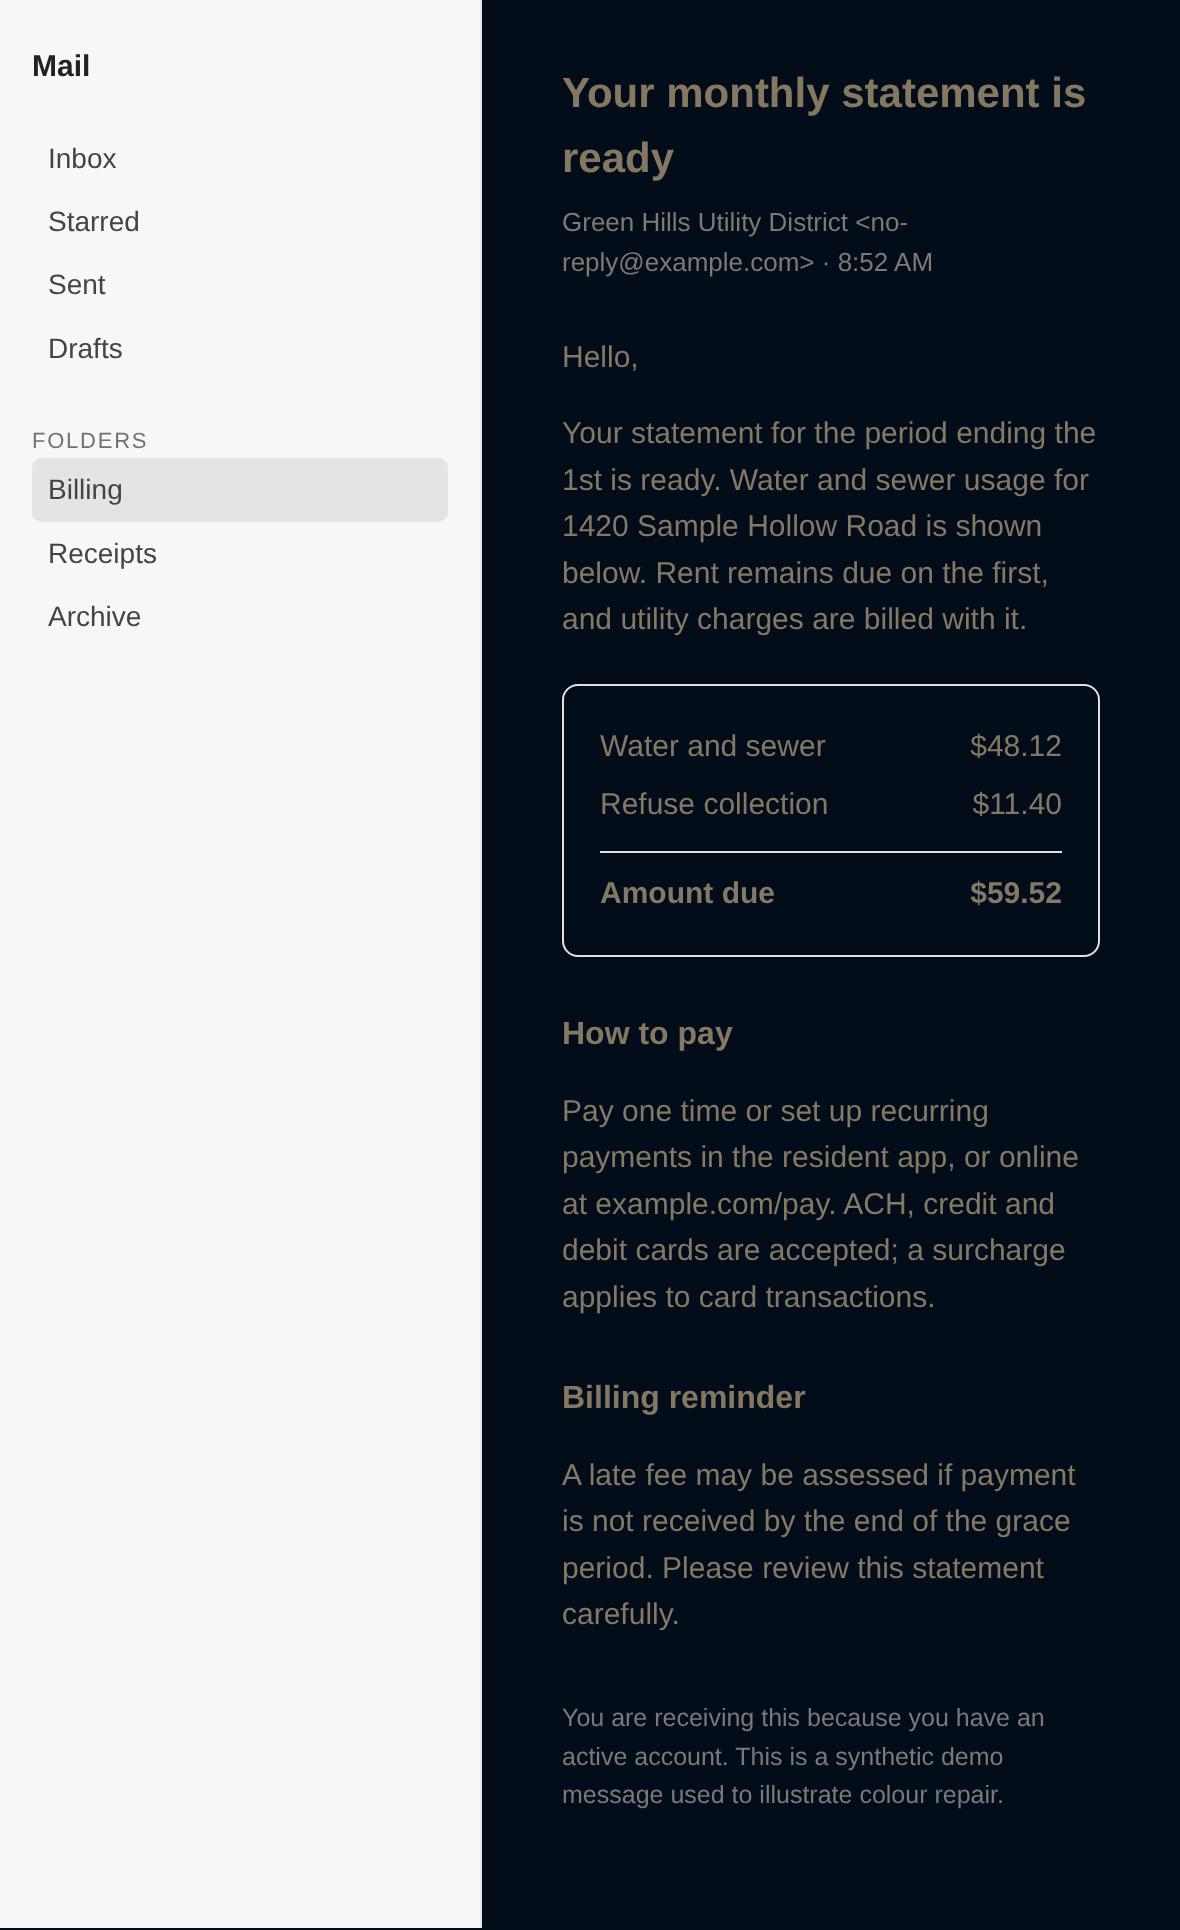
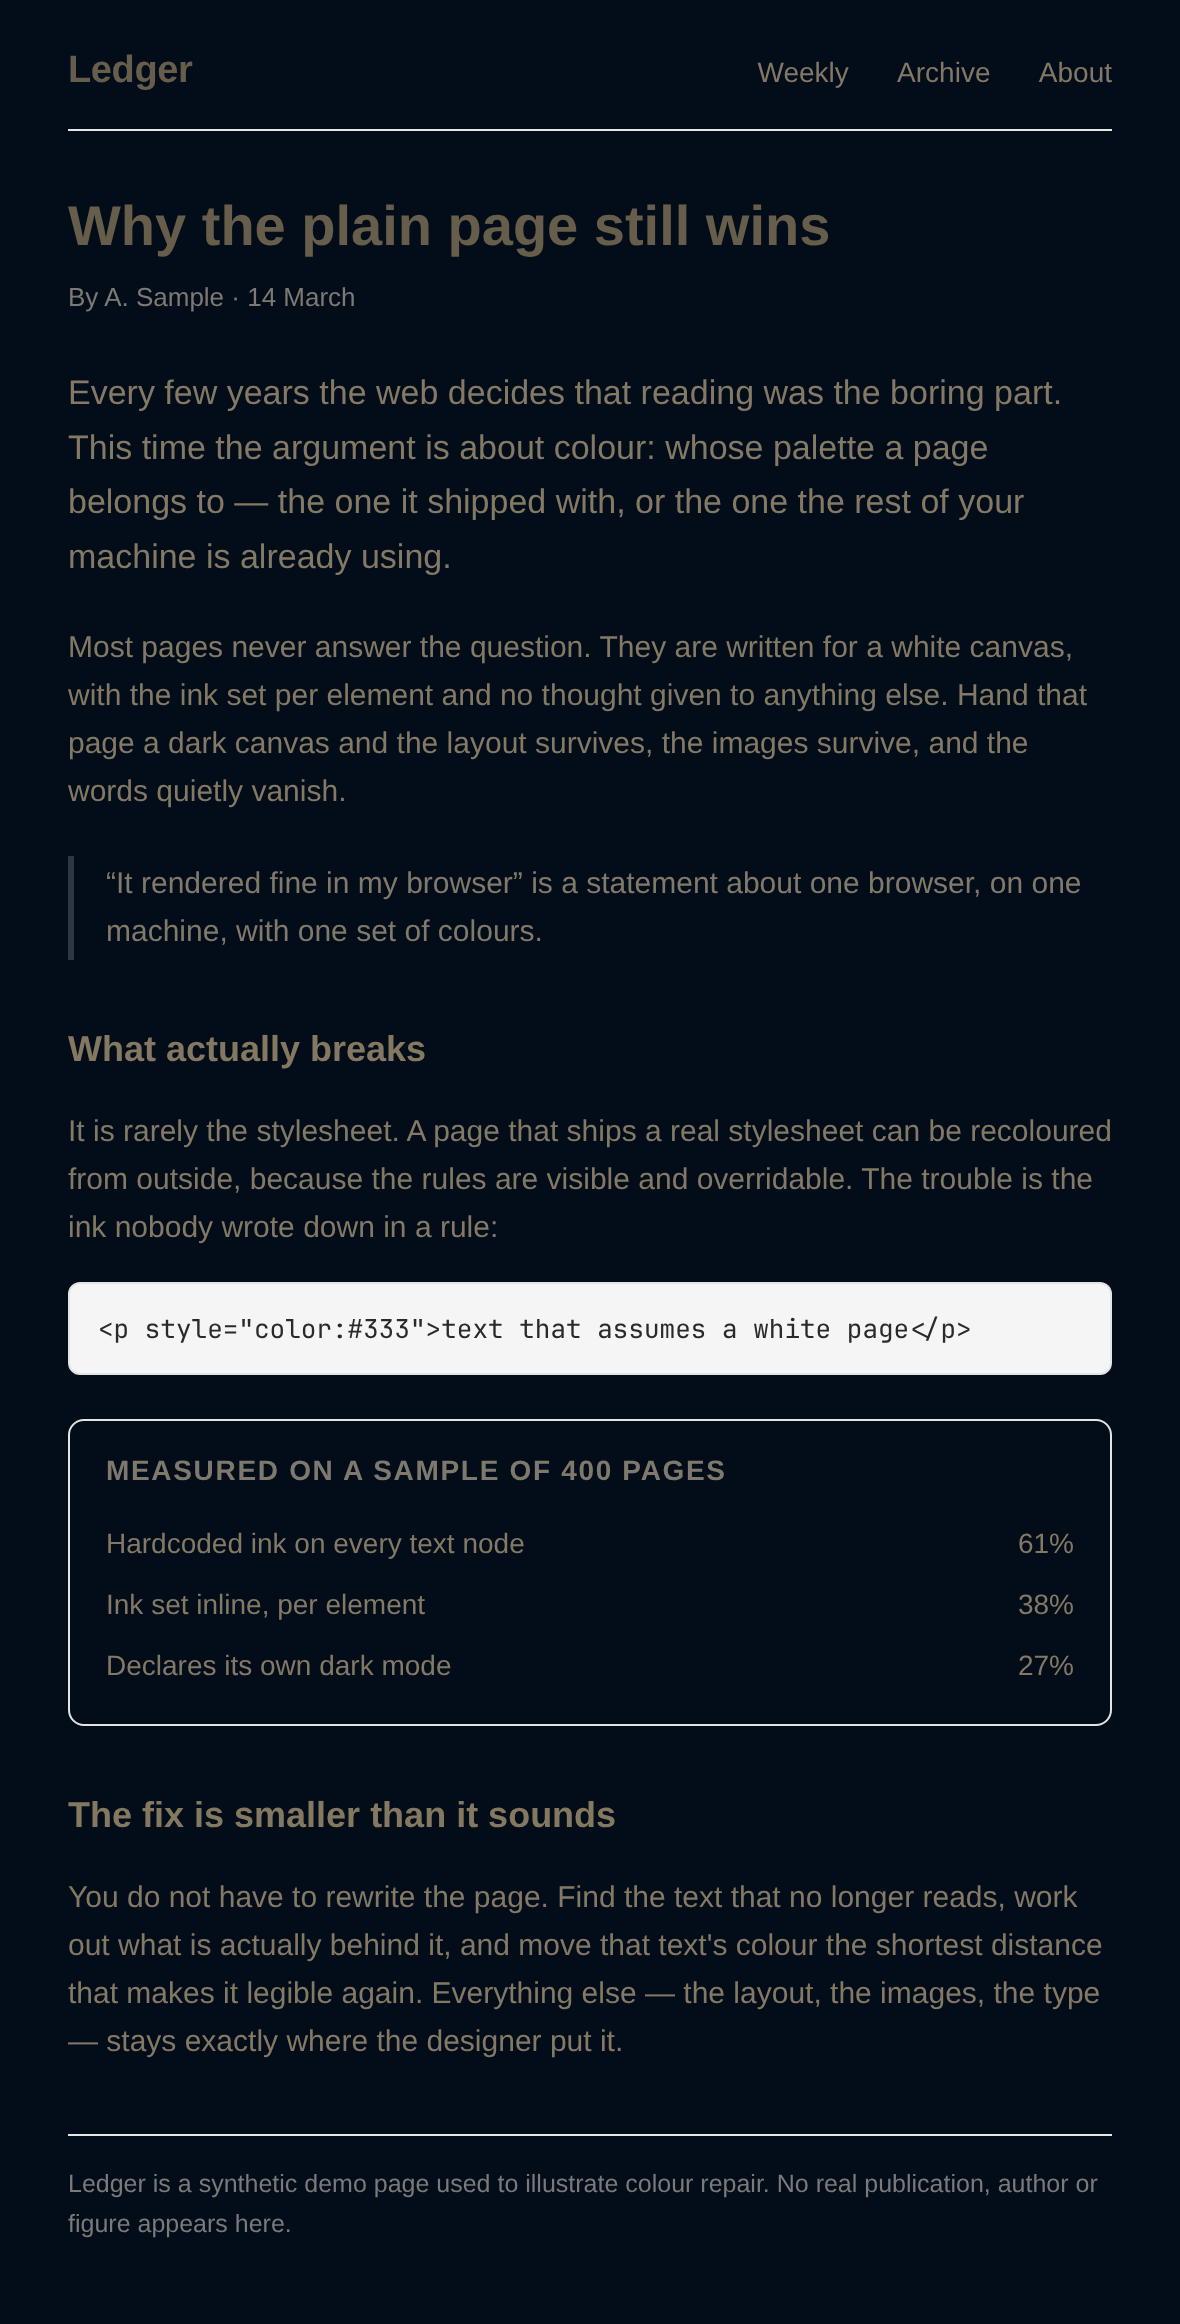
docs: replace the mail-statement demo with a plain article page
The screenshot pair showed a made-up utility statement, which is a strange
example for a browser extension and read as a leftover from the machine it was
first shot on. The pair now shows docs/demo-page.html: an ordinary light
article page whose ink is written inline, the way real sites ship it — the case
the repair pass exists for.

The screenshots' rationale also spilled into the README as publishing notes
(synthetic message, "nothing from a real mailbox"); that belongs in the capture
script's header comment, not in the reader's way. The README now just points at
the demo page, states the measured contrast (1.5:1 against 4.5:1 for AA) and
says how to regenerate the images.

diff --git a/docs/capture-screenshots.js b/docs/capture-screenshots.js
@@ -1,11 +1,8 @@
 // Regenerates the two README screenshots (docs/contrast-before.png and
-// docs/contrast-after.png) from a SYNTHETIC page.
+// docs/contrast-after.png) from docs/demo-page.html.
 //
-// Why a script instead of a hand-taken screenshot: the original pair was shot
-// inside a real webmail account, which dragged a real name, address, billing
-// amount and mailbox layout into a public repository. This page is invented
-// boilerplate (example.com sender, sample address), so the images can be
-// regenerated by anyone and can never leak anything.
+// The page under the lens is docs/demo-page.html: a plain light article with its
+// ink written inline, the way real sites ship it.
 //
 // It drives the real content scripts — not a mock-up — through the same raw-CDP
 // harness the E2E test uses:
@@ -40,82 +37,11 @@ const PALETTE = {
 };
 
 // ---------------------------------------------------------------------------
-// the synthetic message. Nothing here is real: the sender domain is reserved
-// (RFC 2606), the address and figures are invented.
+// the page under the lens: docs/demo-page.html, an ordinary light article page
+// with every run of ink hardcoded inline. Edit that file, not this one.
 // ---------------------------------------------------------------------------
 
-const PAGE = `<!DOCTYPE html>
-<html lang="en"><head><meta charset="utf-8"><title>Statement</title>
-<style>
-  html, body { margin: 0; }
-  body {
-    /* the mail app paints a light canvas of its own; the theme repaints it */
-    background: #ffffff;
-    font: 15px/1.55 -apple-system, "Segoe UI", system-ui, sans-serif;
-    /* the canvas the mail app assumes is white; the theme repaints it */
-  }
-  .app { display: flex; }   /* height comes from the content, not the window */
-  .side { width: 208px; flex: none; padding: 22px 16px; font-size: 14px;
-          border-right: 1px solid #e6e6e6; background: #f7f7f7; }
-  .side h1 { font-size: 15px; margin: 0 0 18px; }
-  .side .item { padding: 5px 8px; border-radius: 5px; }
-  .side .item.sel { background: #e4e4e4; }
-  .side .group { margin-top: 22px; font-size: 11px; letter-spacing: .08em;
-                 text-transform: uppercase; }
-  .pane { flex: 1; padding: 30px 40px 44px; max-width: 720px; }
-  .subject { font-size: 21px; font-weight: 600; margin: 0 0 6px; }
-  .meta { font-size: 13px; margin: 0 0 26px; }
-  .card { border: 1px solid #e2e2e2; border-radius: 8px; padding: 16px 18px; margin: 20px 0; }
-  .card .row { display: flex; justify-content: space-between; padding: 3px 0; }
-  .card .total { border-top: 1px solid #e2e2e2; margin-top: 8px; padding-top: 9px; font-weight: 600; }
-  h3 { font-size: 16px; margin: 26px 0 8px; }
-  .fine { font-size: 12.5px; margin-top: 30px; }
-</style></head>
-<body>
-  <!-- Every run of ink below is written inline, the way an HTML email does it.
-       That is the point: the theme's stylesheet cannot reach an inline colour,
-       so the ink survives the repaint and has to be repaired. -->
-  <div class="app">
-    <div class="side" style="color:#444444">
-      <h1 style="color:#222222">Mail</h1>
-      <div class="item">Inbox</div>
-      <div class="item">Starred</div>
-      <div class="item">Sent</div>
-      <div class="item">Drafts</div>
-      <div class="group" style="color:#8a8a8a">Folders</div>
-      <div class="item sel">Billing</div>
-      <div class="item">Receipts</div>
-      <div class="item">Archive</div>
-    </div>
-    <div class="pane">
-      <h2 class="subject" style="color:#1b1b1b">Your monthly statement is ready</h2>
-      <p class="meta" style="color:#6a6a6a">Green Hills Utility District &lt;no-reply@example.com&gt; &middot; 8:52 AM</p>
-
-      <p style="color:#333333">Hello,</p>
-      <p style="color:#333333">Your statement for the period ending the 1st is ready. Water and sewer
-      usage for 1420 Sample Hollow Road is shown below. Rent remains due on the
-      first, and utility charges are billed with it.</p>
-
-      <div class="card">
-        <div class="row" style="color:#333333"><span>Water and sewer</span><span>$48.12</span></div>
-        <div class="row" style="color:#333333"><span>Refuse collection</span><span>$11.40</span></div>
-        <div class="row total" style="color:#333333"><span>Amount due</span><span>$59.52</span></div>
-      </div>
-
-      <h3 style="color:#2a2a2a">How to pay</h3>
-      <p style="color:#333333">Pay one time or set up recurring payments in the resident app, or online
-      at example.com/pay. ACH, credit and debit cards are accepted; a surcharge
-      applies to card transactions.</p>
-
-      <h3 style="color:#2a2a2a">Billing reminder</h3>
-      <p style="color:#333333">A late fee may be assessed if payment is not received by the end of the
-      grace period. Please review this statement carefully.</p>
-
-      <p class="fine" style="color:#7a7a7a">You are receiving this because you have an active account.
-      This is a synthetic demo message used to illustrate colour repair.</p>
-    </div>
-  </div>
-</body></html>`;
+const DEMO = path.join(__dirname, "demo-page.html");
 
 const HARNESS = `
 window.__themifyPalette = ${JSON.stringify(PALETTE)};
@@ -142,7 +68,7 @@ function serve() {
   return new Promise((resolve) => {
     const server = http.createServer((req, res) => {
       res.writeHead(200, { "Content-Type": "text/html; charset=utf-8" });
-      res.end(PAGE);
+      res.end(fs.readFileSync(DEMO, "utf8"));
     });
     server.listen(PORT, "127.0.0.1", () => resolve(server));
   });
@@ -241,8 +167,7 @@ async function main() {
   // Measure the message itself, not the window: a fixed window leaves dead
   // space at the bottom of the PNG.
   const viewportH = await evaluate(`(() => {
-    const app = document.querySelector('.app');
-    return Math.ceil(Math.max(app.getBoundingClientRect().height, 200));
+    return Math.ceil(Math.max(document.body.scrollHeight, 200));
   })()`);
   await cdp.send("Emulation.setDeviceMetricsOverride", {
     width: OUT_W / SCALE, height: viewportH, deviceScaleFactor: SCALE, mobile: false,
@@ -254,7 +179,7 @@ async function main() {
   // the repair pass has touched. The "before" image only means anything if the
   // ink is still the page's own colour at that moment.
   const probe = `(() => {
-    const paras = [...document.querySelectorAll('.pane p')].filter((p) => p.style.color === 'rgb(51, 51, 51)' || p.style.color === '#333333');
+    const paras = [...document.querySelectorAll('article p, p')].filter((p) => p.style.color === 'rgb(51, 51, 51)' || p.style.color === '#333333');
     const p = paras[0];
     return {
       ink: p ? getComputedStyle(p).color : null,

diff --git a/docs/demo-page.html b/docs/demo-page.html
@@ -1,0 +1,89 @@
+<!DOCTYPE html>
+<html lang="en">
+<head>
+<meta charset="utf-8">
+<title>Ledger &middot; Why the plain page still wins</title>
+<style>
+  body {
+    margin: 0;
+    background: #ffffff;                 /* the site assumes a white canvas */
+    font: 15px/1.6 -apple-system, "Segoe UI", system-ui, sans-serif;
+  }
+  .wrap { max-width: 880px; margin: 0 auto; padding: 0 34px 40px; }
+  header.site {
+    display: flex; align-items: baseline; justify-content: space-between;
+    border-bottom: 1px solid #e6e6e6; padding: 20px 0 14px;
+  }
+  .brand { font-size: 19px; font-weight: 700; letter-spacing: -.01em; }
+  nav a { margin-left: 20px; font-size: 14px; text-decoration: none; }
+  h1 { font-size: 28px; line-height: 1.25; margin: 30px 0 8px; }
+  .byline { font-size: 13px; margin: 0 0 24px; }
+  .lede { font-size: 17px; line-height: 1.6; margin: 0 0 20px; }
+  h2 { font-size: 18px; margin: 30px 0 10px; }
+  blockquote { margin: 20px 0; padding: 2px 0 2px 16px; border-left: 3px solid #dcdcdc; }
+  pre { background: #f5f5f5; border: 1px solid #e4e4e4; border-radius: 6px;
+        padding: 12px 14px; overflow: hidden; font-size: 13px; }
+  .card { border: 1px solid #e4e4e4; border-radius: 8px; padding: 14px 18px; margin: 22px 0; }
+  .card h3 { font-size: 14px; letter-spacing: .06em; text-transform: uppercase; margin: 0 0 10px; }
+  .card .row { display: flex; justify-content: space-between; padding: 4px 0; font-size: 14px; }
+  footer.site { border-top: 1px solid #e6e6e6; margin-top: 34px; padding-top: 14px; font-size: 12.5px; }
+</style>
+</head>
+<body>
+  <!-- A stand-in for the ordinary web page this extension is pointed at: a
+       light design of its own, with every run of ink written inline, the way
+       real sites ship it. The theme can repaint the canvas but cannot reach an
+       inline colour, so the ink has to be repaired. Nothing here is real. -->
+  <div class="wrap">
+    <header class="site">
+      <span class="brand" style="color:#1a1a1a">Ledger</span>
+      <nav>
+        <a href="#" style="color:#3a3a3a">Weekly</a>
+        <a href="#" style="color:#3a3a3a">Archive</a>
+        <a href="#" style="color:#3a3a3a">About</a>
+      </nav>
+    </header>
+
+    <h1 style="color:#111111">Why the plain page still wins</h1>
+    <p class="byline" style="color:#6a6a6a">By A. Sample &middot; 14 March</p>
+
+    <p class="lede" style="color:#333333">Every few years the web decides that
+    reading was the boring part. This time the argument is about colour: whose
+    palette a page belongs to — the one it shipped with, or the one the rest of
+    your machine is already using.</p>
+
+    <p style="color:#333333">Most pages never answer the question. They are
+    written for a white canvas, with the ink set per element and no thought given
+    to anything else. Hand that page a dark canvas and the layout survives, the
+    images survive, and the words quietly vanish.</p>
+
+    <blockquote style="color:#4a4a4a">&ldquo;It rendered fine in my browser&rdquo;
+    is a statement about one browser, on one machine, with one set of colours.</blockquote>
+
+    <h2 style="color:#222222">What actually breaks</h2>
+    <p style="color:#333333">It is rarely the stylesheet. A page that ships a
+    real stylesheet can be recoloured from outside, because the rules are visible
+    and overridable. The trouble is the ink nobody wrote down in a rule:</p>
+
+    <pre style="color:#2a2a2a">&lt;p style="color:#333"&gt;text that assumes a white page&lt;/p&gt;</pre>
+
+    <div class="card">
+      <h3 style="color:#5a5a5a">Measured on a sample of 400 pages</h3>
+      <div class="row" style="color:#333333"><span>Hardcoded ink on every text node</span><span>61%</span></div>
+      <div class="row" style="color:#333333"><span>Ink set inline, per element</span><span>38%</span></div>
+      <div class="row" style="color:#333333"><span>Declares its own dark mode</span><span>27%</span></div>
+    </div>
+
+    <h2 style="color:#222222">The fix is smaller than it sounds</h2>
+    <p style="color:#333333">You do not have to rewrite the page. Find the text
+    that no longer reads, work out what is actually behind it, and move that
+    text's colour the shortest distance that makes it legible again. Everything
+    else — the layout, the images, the type — stays exactly where the designer
+    put it.</p>
+
+    <footer class="site" style="color:#7a7a7a">Ledger is a synthetic demo page
+    used to illustrate colour repair. No real publication, author or figure
+    appears here.</footer>
+  </div>
+</body>
+</html>

diff --git a/README.md b/README.md
@@ -128,18 +128,15 @@ text** — which also reports how many runs it repaired on the page you are on.
 Cost is bounded: work is limited to a band around the viewport, ≤2500 elements per
 pass, results are cached per element, and new DOM is handled by a `MutationObserver`.
 
-The same message body before and after the pass (dark theme, hardcoded `#333` ink):
+The same page before and after the pass (dark theme, hardcoded `#333` ink):
 
-![before: the email body text is invisible on the dark canvas](docs/contrast-before.png)
+![before: the article text is invisible on the dark canvas](docs/contrast-before.png)
 ![after: the same text repaired, the rest of the theme untouched](docs/contrast-after.png)
 
-Both images are captured from a **synthetic** message (invented sender, address and
-figures) by `node docs/capture-screenshots.js`, which drives the real content
-scripts through headless Chromium — same harness as the E2E test. Nothing from a
-real mailbox is involved, and the pair can be regenerated at any time. The script
-refuses to write the "before" image unless the page's own `#333` ink really is
-still in place at that moment, so the failure it shows cannot be faked by a stale
-palette.
+The page is [`docs/demo-page.html`](docs/demo-page.html) — a plain light article
+with its ink written inline, the way real sites ship it. That ink measures about
+**1.5:1** against the dark canvas, where WCAG AA asks for 4.5:1; the pair is
+regenerated with `node docs/capture-screenshots.js`.
 
 ## Theme-following contract
 
@@ -274,7 +271,8 @@ cleanly if the host manifest isn't installed.
 | `native/gen-key.sh` | regenerate the ID keypair (outside the extension folder) |
 | `native/com.omarchy.themify.json.template` | host manifest template rendered by `install.sh` |
 | `hooks/themify-theme-set` | theme-set hook → SIGUSR1 |
-| `docs/capture-screenshots.js` | regenerates the two README screenshots from a synthetic message |
+| `docs/demo-page.html` | the page shown in the two screenshots above |
+| `docs/capture-screenshots.js` | regenerates those screenshots from the demo page |
 | `install.sh` | wiring + `--uninstall` |
 
 ## Notes / gotchas
